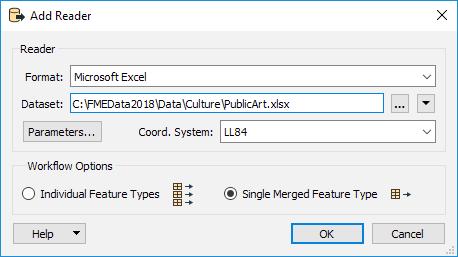
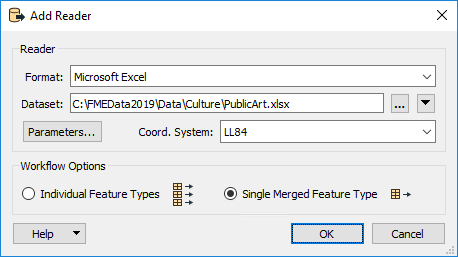
2019 Chapter 0 Exercises and intro updates

Changed region(s): [[0.1528, 0.3424, 0.8253, 0.4669], [0.0306, 0.6226, 0.2445, 0.6848], [0.917, 0.3735, 0.9476, 0.4047]]

diff --git a/DesktopAdvanced0Introduction/0.Exercise1.md b/DesktopAdvanced0Introduction/0.Exercise1.md
@@ -40,19 +40,18 @@ C:\FMEData2019\Workspaces\DesktopAdvanced\FMEReview-Ex1-Complete-Advanced.fmw</t
 
 </table>
 
-You've just been hired by the city's GIS department. For your first project, you've been asked to create a map that shows the public art within a 5-minute walking radius (2-3 street blocks) of each train station. This project is also being used to assess your skills and see what other projects you'll be able to work on right away. 
+You have been hired by a city GIS department. For your first project, you've been asked to create a map that shows the public art within a 5-minute walking radius (2-3 street blocks) of each transit station.
 
 **Project Requirements:**
 
-Use FME Workbench to carry out the following:
+To carry out this project in FME Workbench you'll need to do the following:
 
 - Read all the sheets from an Excel spreadsheet (PublicArt.xlsx) turning the data into spatial features 
+- Reproject the arts data to the UTM83-10 coordinate system
 - Read the Transit Stations table from a File Geodatabase (CommunityMapping.gdb)
-- Reproject the data to UTM83-10 as required
 - Create a buffer around the transit stations set to approximately 3 blocks (250 metres)
 - Find artwork features within the station buffer
-- Style the data for output to KML format
-- Write the data to Google KML format
+- Style the data and write it to Google KML format
 
 ---
 
@@ -69,9 +68,7 @@ Use FME Workbench to carry out the following:
 <tr>
 <td style="border: 1px solid darkorange">
 <span style="font-family:serif; font-style:italic; font-size:larger">
-If you wish, use the FME skills that you have previously learned to create a workspace that satisfies the requirements above without looking at the steps!
-<br><br>That's ok if you don't get it finished. The complete instructions are below. Just try your best! 
-<br><br>If you struggled with this exercise, it might be a good idea to go back and review the <a href="https://safe-software.gitbooks.io/fme-desktop-basic-training-2018/content/">FME Desktop Basic Manual</a> before taking this advanced course. 
+If you struggle with this exercise, it's a good idea to go back and review the FME Desktop Basic Manual before taking this advanced course. 
 </span>
 </td>
 </tr>
@@ -90,7 +87,7 @@ If you wish, use the FME skills that you have previously learned to create a wor
 
 ![](./Images/Img0.200.Ex1.ExcelReader.png)
 
-Once the Microsoft Excel reader is added, add an Inspector transformer (or turn on Feature Caching) and run the workspace. Inspect the results.
+Once the Microsoft Excel reader is added, turn on feature caching (or add an Inspector transformer) and run the workspace. Inspect the results in the Visual Preview window, checking especially the coordinate system of the data.
 
 ***NB:*** *Don't use the Inspect pop-up button on the reader feature type. You will not see any geometry.*
 
@@ -105,96 +102,51 @@ Once the Microsoft Excel reader is added, add an Inspector transformer (or turn 
 <tr><td><strong>Workflow Options:</strong></td><td>Individual Feature Types</td></tr>
 </table>
 
-Inspect this new dataset paying attention to the coordinate system:
-
-![](./Images/Img0.201.Ex1.GeodatabaseCoord.png)
-
-The coordinate system for this dataset is UTM83-10, the other dataset LL84; so one of these datasets must be reprojected to match the other if we wish to test their spatial relationships. 
+Once more, inspect this new dataset paying particular attention to the coordinate system.
 
 
 <br>**3) Reproject PublicArt**
-<br>Since UTM83-10 is a more localized coordinate system, let's reproject the PublicArt to it. Add a Reprojector transformer to the canvas and connect it to the Public Art feature type (&lt;All&gt;). In the parameters set the Destination Coordinate System to UTM83-10:
+<br>The coordinate system for the transit data is UTM83-10, the artwork features are LL84; therefore one of these datasets must be reprojected to match the other, to test spatial relationships. 
 
-![](./Images/Img0.202.Ex1.ReprojectorParameters.png)
+Since the requirement is to buffer features in metres, we'll use UTM83-10. 
+
+Add a Reprojector transformer to the canvas and connect it to the Public Art feature type (&lt;All&gt;). In the parameters set the Destination Coordinate System to UTM83-10:
+
+![](./Images/Img0.201.Ex1.ReprojectorParameters.png)
+
+Inspect both datasets together (with the background maps turned off) to prove that they now inhabit the same coordinate space.
 
 
 <br>**4) Buffer the Transit Stations**
-<br>To create a 5-minute walking radius for each transit station, which is about 2-3 city blocks, we will need to create a buffer. To do this, we will use the Bufferer transformer. Add a Bufferer transformer to the canvas and connect it to the TransitStations feature type. In the parameters set the Buffer Amount to 100:
+<br>To create a 5-minute walking radius for each transit station, which is about 2-3 city blocks, we will need to create a buffer. To do this, we will use the Bufferer transformer. 
 
-![](./Images/Img0.203.Ex1.BuffererParameters.png)
+Add a Bufferer transformer to the canvas and connect it to the TransitStations feature type. In the parameters set the Buffer Amount to 250:
 
+![](./Images/Img0.202.Ex1.BuffererParameters.png)
 
-<br>**5) Inspect Features**
-<br>Next, we will run the translation to check if the buffer amount was enough. If it's not already set, firstly select Run &gt; Run with Feature Caching from the menubar:
-
-![](./Images/Img0.204.Ex1.RunWithFeatureCaching.png)
+Re-run the workspace and inspect the output to ensure that the buffers are correct.
 
 
-Now run the translation.
-
-Once the translation is complete, select both the Reprojector and Bufferer transformers on the canvas. Then use right click &gt; Inspect Cached Features:
-
-![](./Images/Img0.205.Ex1.InspectFeatureCaches.png) 
-
-
-This will open both the features in the Data Inspector.
-
-To check how many blocks the buffer covers we will need to enable background maps. In the Data Inspector select Tools &gt; FME Options &gt; Background Map. Set Stamen Maps as the Background Format, click the Parameters button, and choose any of the available map types.
-
-The result will look like this:
-
-![](./Images/Img0.206.Ex1.BuffererAmount100Inspect.png)
-<br><span style="font-style:italic;font-size:x-small">Map tiles by <a href="http://stamen.com">Stamen Design</a>, under <a href="http://creativecommons.org/licenses/by/3.0">CC-BY-3.0</a>. Data by <a href="http://openstreetmap.org">OpenStreetMap</a>, under <a href="http://creativecommons.org/licenses/by-sa/3.0">CC-BY-SA</a>.
-
----
-
-<!--Tip Section--> 
-
-<table style="border-spacing: 0px">
-<tr>
-<td style="vertical-align:middle;background-color:darkorange;border: 2px solid darkorange">
-<i class="fa fa-info-circle fa-lg fa-pull-left fa-fw" style="color:white;padding-right: 12px;vertical-align:text-top"></i>
-<span style="color:white;font-size:x-large;font-weight: bold;font-family:serif">TIP</span>
-</td>
-</tr>
-
-<tr>
-<td style="border: 1px solid darkorange">
-<span style="font-family:serif; font-style:italic; font-size:larger">
-If there is no internet connection, or you can't get the background maps working with a web service, you can use any FME-supported format of data. For example, set the Background to Other FME Formats and use an Autodesk AutoCAD DWG/DXF reader to display the CompleteRoads.dwg dataset: 
-<br><br><img src="./Images/Img0.207.Ex1.AddDWGDataset.png">
-<br><br><img src="./Images/Img0.208.Ex1.DWGRoadOutput.png">
-</span>
-</td>
-</tr>
-</table>
-
----
-
-It looks like these buffers only cover approximately one block, so we should increase their size. Back in FME Workbench, change the Buffer Amount parameter in the Bufferer to 250. Optionally, reduce the Interpolation Angle parameter to give a smoother result.
-
-To re-run the workspace use a Partial Run (i.e. click on the Bufferer and choose the Run From This pop-up button). Then inspect both the Reprojector and the Bufferer caches again:
-
-![](./Images/Img0.209.Ex1.Bufferer250Inspect.png)
-<br><span style="font-style:italic;font-size:x-small">Map tiles by <a href="http://stamen.com">Stamen Design</a>, under <a href="http://creativecommons.org/licenses/by/3.0">CC-BY-3.0</a>. Data by <a href="http://openstreetmap.org">OpenStreetMap</a>, under <a href="http://creativecommons.org/licenses/by-sa/3.0">CC-BY-SA</a>.
-
-This looks good; now we can move on.
-
-
-<br>**6) Filter Public Art**
-<br>Now that the buffer is a good size we can find out which of the public art pieces fall within the buffered area. 
+<br>**5) Filter Public Art**
+<br>Now let's find which of the public art pieces fall within the buffered area. 
 
 Add a SpatialFilter transformer to the canvas. Connect the Reprojector:Reprojected output port to the SpatialFilter:Candidate input port, and the Bufferer:Buffered output port to the SpatialFilter:Filter input port:
 
-![](./Images/Img0.210.Ex1.SpatialFilter.png)
+![](./Images/Img0.203.Ex1.SpatialFilter.png)
 
 Adjust the workspace as necessary to ensure there are no crossed connections. 
 
 Set the SpatialFilter Spatial Predicates to Test parameter to apply both *Filter Contains Candidate* and *Filter Touches Candidate*.
 
-![](./Images/Img0.211.Ex1.SpatialFilterParameters.png)
+![](./Images/Img0.204.Ex1.SpatialFilterParameters.png)
 
 Rerun the translation if you wish, and inspect the SpatialFilter:Passed output port (alongside the Bufferer output) to make sure the results are correct. There should be 52 Passed features.
+
+
+<br>**6) Style Output KML**
+<br>Add a KMLStyler transformer to the SpatialFilter:Passed output port. This will be used to style the artwork to be written to the KML output. 
+
+In the parameters under Icon &gt; Name, click the ellipsis then select an icon such as A1. Then for Label Style set the Scale to 0 and the Opacity to 0. This will allow the icon to show, but hide their labels. 
 
 
 <br>**7) Add Google KML Writer**
@@ -202,67 +154,25 @@ Rerun the translation if you wish, and inspect the SpatialFilter:Passed output p
 
 <table>
 <tr><td><strong>Writer Format:</strong></td><td>Google KML</td></tr>
-<tr><td><strong>Writer Dataset:</td><td>C:\FMEData2019\Output\Walkability.kml</td></tr>
+<tr><td><strong>Writer Dataset:</td><td>C:\FMEData2019\Output\Training\Artworks.kml</td></tr>
 <tr><td><strong>Feature Type Definition</strong></td><td>Automatic</td></tr>
 </table>
 
-Change the name of the newly created Feature Type to ArtNearTransit. Connect it to the SpatialFilter:Passed output port. Also connect the Bufferer:Buffered output port to the ArtNearTransit:Input port:
+Change the name of the newly created feature type to ArtNearTransit. Connect it to the KMLStyler:KMLStyled output port.
 
-![](./Images/Img0.212.Ex1.KMLConnections.png)
+![](./Images/Img0.205.Ex1.KMLFeatureType.png)
 
-Open the ArtNearTransit feature type parameters and select the User Attributes tab. Change the Attribute Definition to Manual and remove the attributes OBJECTID and _predicate:
+Reopen the ArtNearTransit feature type parameters and select the User Attributes tab. Change the Attribute Definition to Manual and remove the attributes OBJECTID and _predicate:
 
-![](./Images/Img0.213.Ex1.KMLUserAttributes.png)
+![](./Images/Img0.206.Ex1.KMLUserAttributes.png)
 
 
 <br>**8) Save and Run Translation**
-<br>You can now save your workspace then run the translation. Open up the Google KML file in Google Earth or the FME Data Inspector:
+<br>You can now save your workspace then run the translation. Open up the Google KML file in Google Earth to inspect the output.
 
-![](./Images/Img0.214.Ex1.GoogleEarthWithoutStyle.png)
+![](./Images/Img0.207.Ex1.FinalGoogleEarthOutput.png)
 
-***NB:*** *Even though we reprojected the data to UTM83-10, Google KML format supports only a Latitude and Longitude coordinate system. Notice that the writer automatically reprojected our data for us. So why do you think we reprojected our data to UTM83-10 in the Reprojector? Hint: it has something to do with the Bufferer transformer.*
-
----
-
-<!--Advanced Exercise Section-->
-
-<table style="border-spacing: 0px">
-<tr>
-<td style="vertical-align:middle;background-color:darkorange;border: 2px solid darkorange">
-<i class="fa fa-cogs fa-lg fa-pull-left fa-fw" style="color:white;padding-right: 12px;vertical-align:text-top"></i>
-<span style="color:white;font-size:x-large;font-weight: bold;font-family:serif">Advanced Exercise</span>
-</td>
-</tr>
-<tr>
-<td style="border: 1px solid darkorange">
-<span style="font-family:serif; font-style:italic; font-size:larger">
-The output of the Google KML isn't the prettiest; it just uses default icons. These output styles can be changed with KMLStyler transformers. 
-</span>
-</td>
-</tr>
-</table>
-
----
-
-<br>**9) Connect TransitStations**
-<br>We also want to add an icon for our TransitStations so the user knows where the station is. Connect the TransitStations Feature Type to the ArtNearTransit Writer:
-
-![](./Images/Img0.215.Ex1.AdvancedWorkspace.png)
-
-
-<br>**10) Style Output KML**
-<br>Add a KMLStyler transformer between the SpatialFilter:Passed output port and the ArtNearTransit Writer. In the parameters under Icon &gt; Name, click the ellipsis then select an icon such as J1. Then for Label Style set the Scale to 0 and the Opacity to 0. This will allow the icon to show, but hide their labels. 
-
-Between the Bufferer and the ArtNearTransit Writer add another KMLStyler. In the parameters set the Color to Black and the Fill Color to Yellow. Set both Opacity and Fill Opacity to 0.5. Then for Label Style set the Scale to 0 and the Opacity to 0. 
-
-Finally, add a third KMLStyler to the canvas. This time connect it between the TransitStations:Output port and the ArtNearTransit:Input port. In the parameters Icon &gt; Name, click on the ellipsis then double click on the first folder icon to browse for more icons. Then select the gx_rail icon and click OK. Also, set the Scale and Opacity for Label Style to 0. 
-
-![](./Images/Img0.216.Ex1.FinalAdvancedWorkspace.png)
-
-<br>**11) Save and Run Translation**
-<br>Finally, save and rerun the translation to see the updated icons in Google Earth:
-
-![](./Images/Img0.217.Ex1.FinalAdvancedGoogleEarthOutput.png)
+***NB:*** *Even though we reprojected the data to UTM83-10, Google KML format supports only a Latitude and Longitude coordinate system. Notice that the writer automatically reprojected our data for us.
 
 ---
 
@@ -281,16 +191,13 @@ Finally, add a third KMLStyler to the canvas. This time connect it between the T
 <span style="font-family:serif; font-style:italic; font-size:larger">
 By completing this exercise you have reviewed the following skills:
 <br>
-<ul><li>Add a reader and writer</li>
-<li>Modify reader parameters</li>
-<li>Apply various transformer parameters (Bufferer and SpatialFilter)</li>
-<li>Use the Data Inspector to inspect data</li>
-<li>Add a background map to the Data Inspector</li>
-<li>Modify writer output schema</li>
-<li>Style a KML dataset</li>
+<ul>
+<li>Add a reader and modify the reader parameters</li>
+<li>Add various transformer and adjust their parameters</li>
+<li>Use the Visual Preview window to inspect data</li>
+<li>Add a writer and modify the writer output schema</li>
 </ul>
 </span>
 </td>
 </tr>
 </table>
-

diff --git a/DesktopAdvanced0Introduction/0.01.CourseOverview.md b/DesktopAdvanced0Introduction/0.01.CourseOverview.md
@@ -32,6 +32,7 @@ In particular, it would be helpful to be familiar with:
 - Data filtering and attribute management techniques in FME Workbench, and use of FeatureReader/FeatureWriter transformers
 	- See the "Practical Transformer Use" chapter of the Basic Training
 
+If in doubt, carry out the exercise at the end of this chapter (titled "Basic FME Skills Review"). If you are able to implement the exercise without too much difficulty, then you are ready for the rest of this course.
 
 ## About the Manual ##
 The FME Desktop Advanced Training manual not only forms the basis for advanced FME Desktop training – in-person or online – but is also useful reference material for future work you may undertake with FME. It is updated for each major release of FME.
